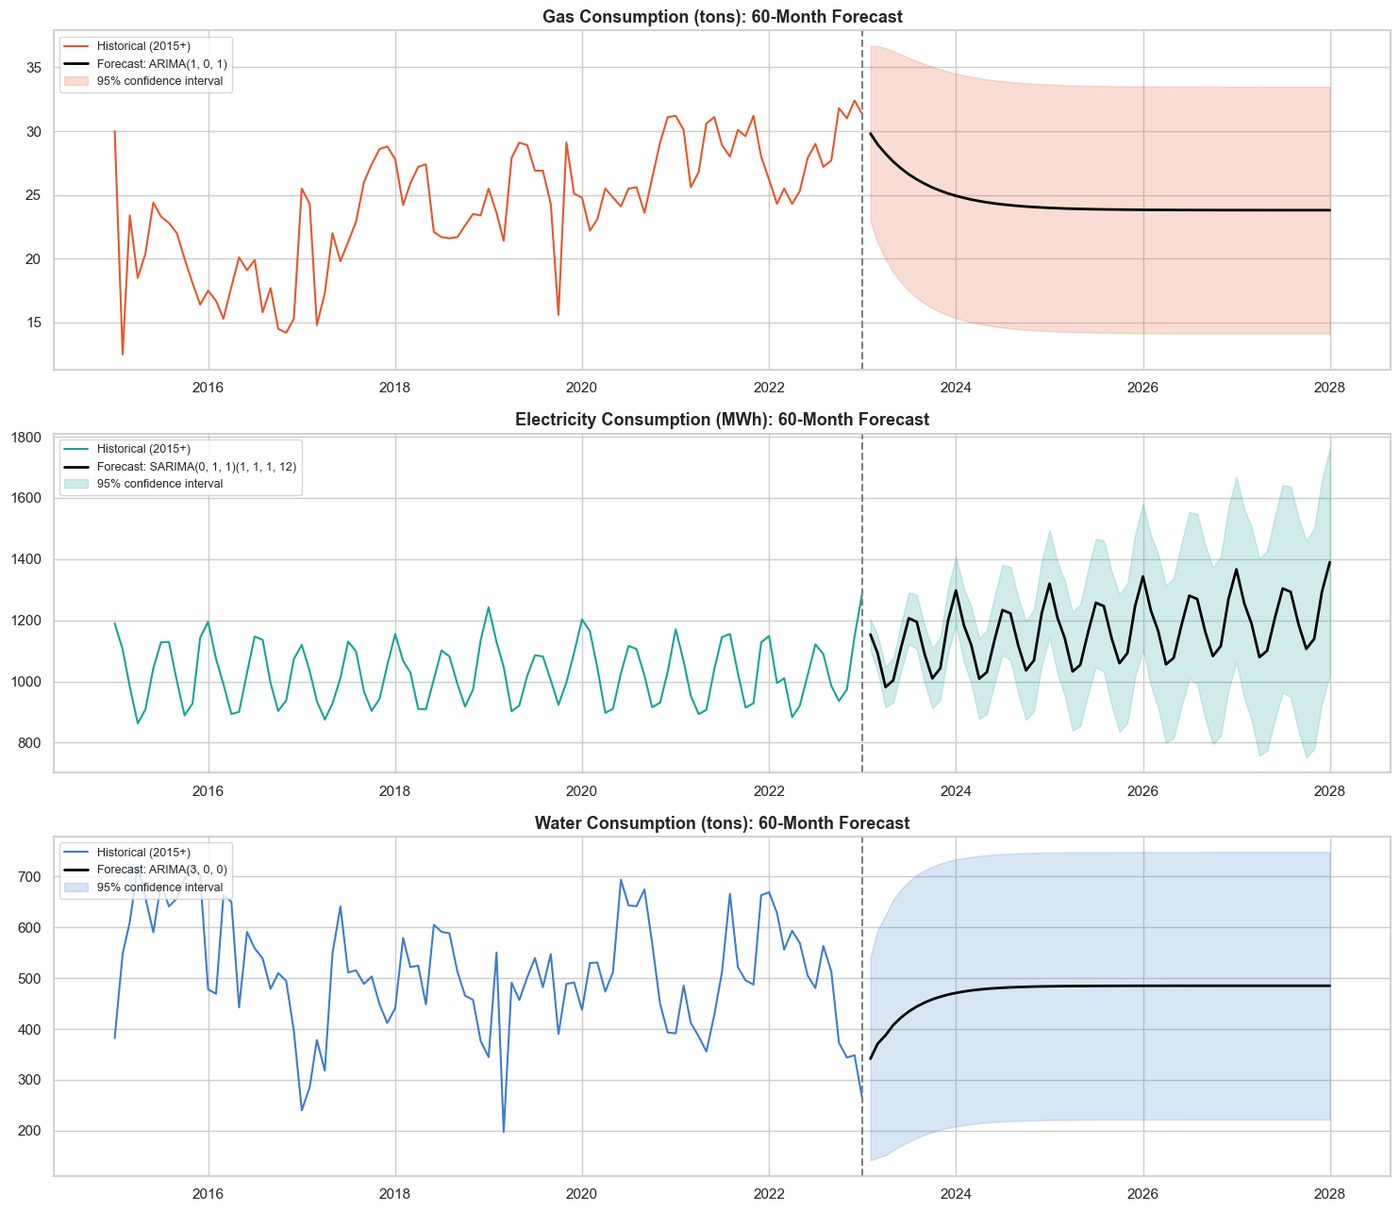
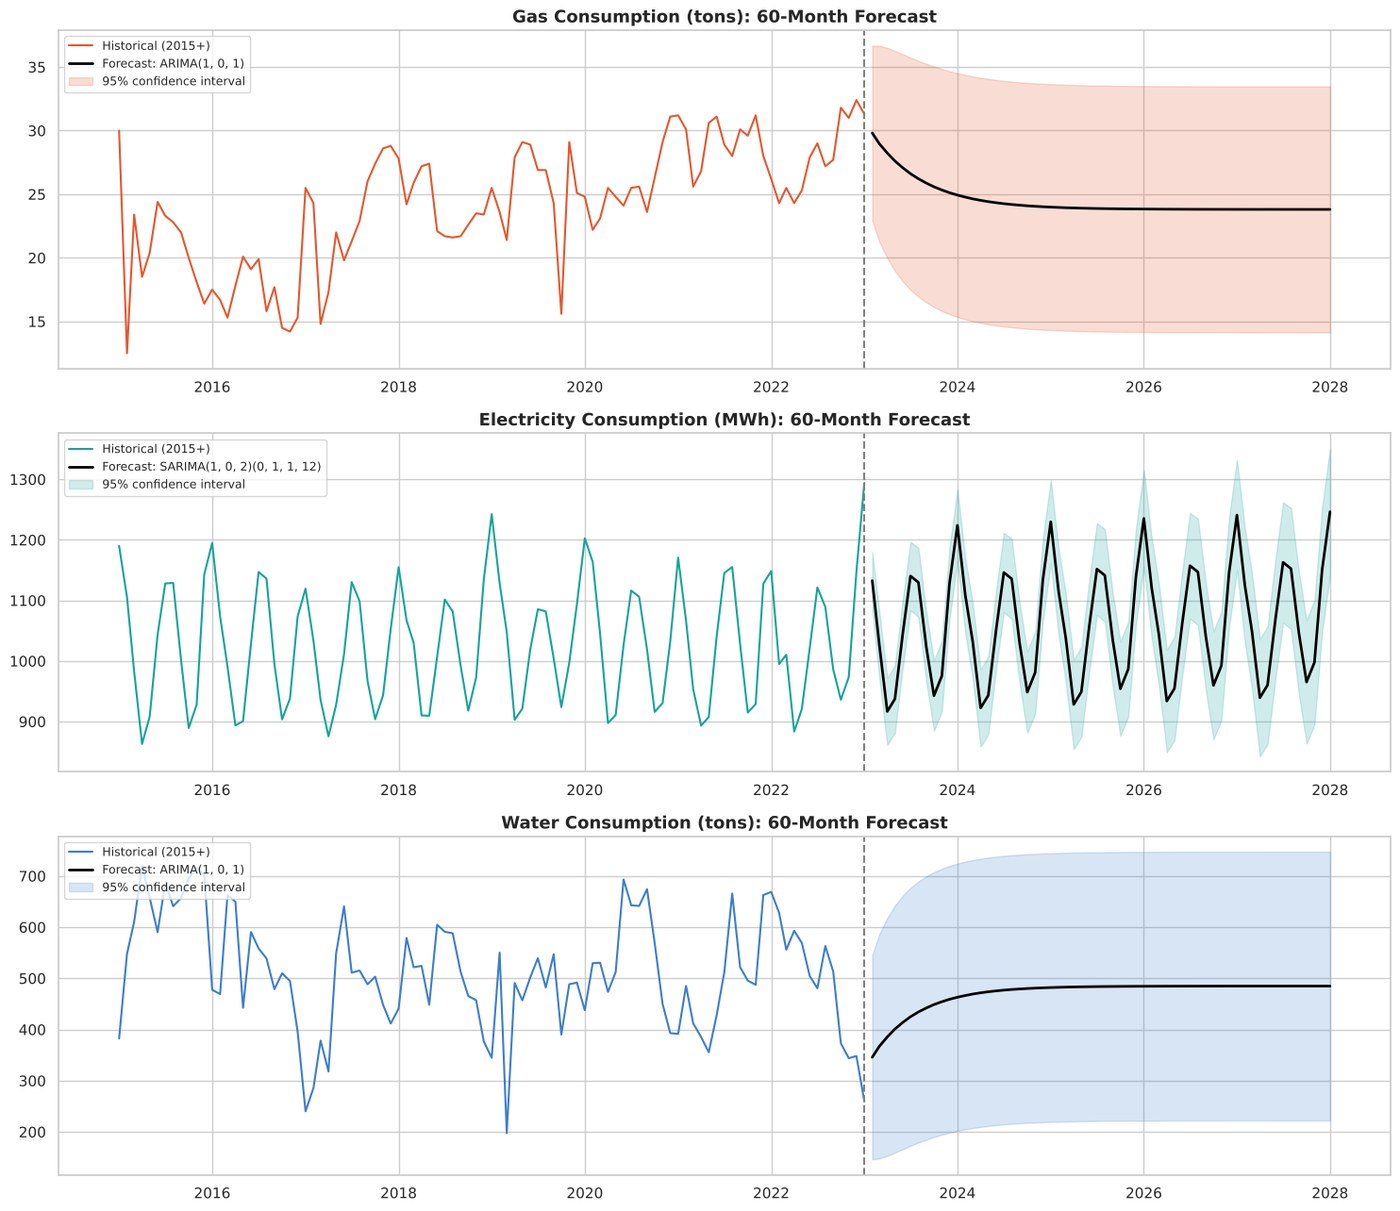
Update Energy Forecasting project with final results
Claude-Session: https://claude.ai/code/session_01QXaz77hCZpX3btLnLFF1ft

diff --git a/index.html b/index.html
@@ -407,12 +407,12 @@ const P = [
   mine:'I wrote all 8 analyses. I also migrated the book data into MongoDB and ran a research study on preventing double loans with MySQL row-level locking.',
   tools:'MySQL, SQL, MongoDB, Excel', repo:'library-data-warehouse-sql', cover:{motif:'library'},
   figs:[['motif:library','Average loans per active borrower, 2020 to 2025',1],['assets/lib_schema.jpg','The star schema'],['assets/lib_a8.jpg','Active borrowers and loans per borrower by year']]},
- {id:'energy', cat:'data', title:'Energy Forecasting', sub:'Five years of monthly utility use', tags:['Python','SARIMA','Holt-Winters'], role:'Individual',
-  one:'Forecast electricity use within 3.3% error, five years ahead.',
+ {id:'energy', cat:'data', title:'Energy Forecasting', sub:'Five years of monthly utility use', tags:['Python','SARIMA','Time series'], role:'Individual',
+  one:'Forecast electricity use within 2.6% error on unseen test data.',
   intro:'Forecast a building’s monthly gas, electricity and water use for the next 60 months from 33 years of history (1990 to 2023).',
   problem:'Budget planning needs to know what each utility will cost years ahead. The three series behave very differently, so one model would not fit all of them.',
-  steps:['Decomposed each series into trend, seasonality and noise, and found the three utilities move independently.','Split the data in time order into train, validation and test sets, and used ADF tests to check stationarity.','Compared ARIMA, SARIMA and Holt-Winters against Seasonal Naive and Mean benchmarks, tuning orders with grid search.','Evaluated the final models once on unseen test data, then produced 60-month forecasts with 95% intervals.'],
-  stats:[['3.3%','electricity test error (MAPE)'],['76%','less error from adding seasonality'],['<1%','extra gain from tuning']],
+  steps:['Decomposed each series into trend, seasonality and noise, and found the three utilities move independently.','Split the data in time order and used ADF tests and rolling statistics to difference only electricity.','Compared ARIMA, SARIMA and Holt-Winters against Seasonal Naive and Mean benchmarks, choosing each model by its average error over four validation windows.','Evaluated the final models once on unseen test data, checked their residuals, then produced 60-month forecasts with 95% intervals.'],
+  stats:[['2.6%','electricity test error (MAPE)'],['76%','less error from adding seasonality'],['11%','less error by validating on four windows, not one']],
   tools:'Python, pandas, statsmodels, scikit-learn', repo:'energy-consumption-forecasting', cover:{motif:'energy'},
   figs:[['assets/en_forecast.jpg','60-month forecasts with 95% confidence intervals',1],['assets/en_season.jpg','Validation error with and without seasonality'],['assets/en_decomp.jpg','Electricity: trend, seasonality and residuals']]},
  {id:'segments', cat:'data', title:'Customer Segmentation', sub:'Six groups from 200 mall customers', tags:['scikit-learn','K-Means','Clustering'], role:'Individual',
@@ -517,10 +517,10 @@ function motif(kind){
   }
   if(kind==='energy'){
     let d='M30 190', band='', pts=[];
-    for(let x=30;x<=370;x+=3){const t=(x-30)/340; const y=200-t*70-Math.sin(t*Math.PI*18)*18*(.7+t*.5); pts.push([x,y]); d+=` L${x} ${y.toFixed(1)}`;}
+    for(let x=30;x<=370;x+=3){const t=(x-30)/340; const tt=Math.min(t,(270-30)/340); const y=200-tt*70-Math.sin(t*Math.PI*18)*18*(.7+t*.5); pts.push([x,y]); d+=` L${x} ${y.toFixed(1)}`;}
     const fx=270; const up=pts.filter(p=>p[0]>=fx).map(p=>`${p[0]} ${(p[1]-14-(p[0]-fx)*.12).toFixed(1)}`), dn=pts.filter(p=>p[0]>=fx).map(p=>`${p[0]} ${(p[1]+14+(p[0]-fx)*.12).toFixed(1)}`).reverse();
     band=`<path d="M${up.join(' L')} L${dn.join(' L')} Z" fill="#7C5CFF" opacity=".16"/>`;
-    g+=band+`<line x1="${fx}" y1="60" x2="${fx}" y2="240" stroke="#7C5CFF" stroke-dasharray="4 5" opacity=".5"/><path d="${d}" fill="none" stroke="#5B3F9E" stroke-width="2.4" stroke-linejoin="round"/><text x="${fx+8}" y="74" font-family="JetBrains Mono,monospace" font-size="10" fill="#5E5575">FORECAST</text><text x="34" y="44" font-family="Instrument Serif,serif" font-style="italic" font-size="38" fill="#5B3F9E">3.3%</text><text x="34" y="64" font-family="Outfit,sans-serif" font-size="12" fill="#5E5575">electricity test error</text>`;
+    g+=band+`<line x1="${fx}" y1="60" x2="${fx}" y2="240" stroke="#7C5CFF" stroke-dasharray="4 5" opacity=".5"/><path d="${d}" fill="none" stroke="#5B3F9E" stroke-width="2.4" stroke-linejoin="round"/><text x="${fx+8}" y="74" font-family="JetBrains Mono,monospace" font-size="10" fill="#5E5575">FORECAST</text><text x="34" y="44" font-family="Instrument Serif,serif" font-style="italic" font-size="38" fill="#5B3F9E">2.6%</text><text x="34" y="64" font-family="Outfit,sans-serif" font-size="12" fill="#5E5575">electricity test error</text>`;
   }
   if(kind==='segments'){
     let s=11; const r=()=>{s=(s*9301+49297)%233280; return s/233280;};
